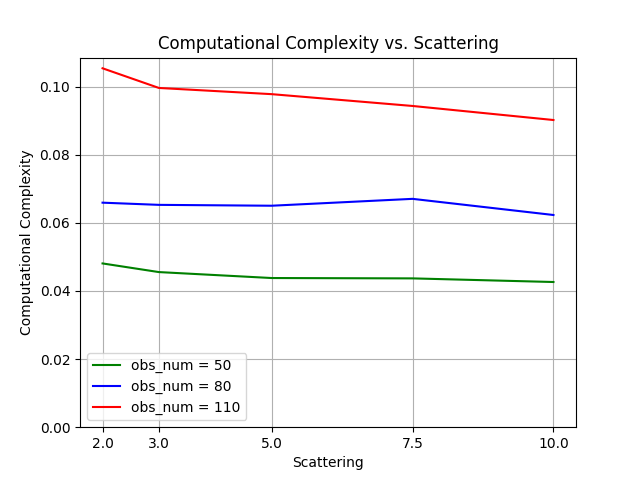
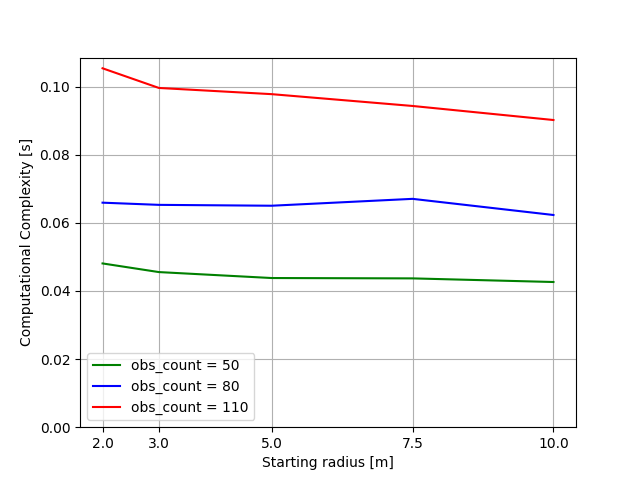
Graphs for Level 1 and 2 updated

diff --git a/Plot_results.py b/Plot_results.py
@@ -62,7 +62,7 @@ def plot_L1(swarm, scattering):
     if scattering: 
         values.append(scattering_values)
         x_ticks.append(asl.L1_scattering)
-        name.append("Scattering")
+        name.append("Starting radius [m]")
         folder.append(folder_path_scattering_L1)
 
     for j in range(len(values)): 
@@ -72,19 +72,19 @@ def plot_L1(swarm, scattering):
         y1, y2, y3 = [], [], []
 
         for i in range(len(x_ticks[j])): 
-            y1.append(sum(x for x in values[j][0][0][i] if x != -1 and x != 0) / sum(1 for x in values[j][0][0][i] if x != -1 and x != 0))
-            y2.append(sum(x for x in values[j][0][1][i] if x != -1 and x != 0) / sum(1 for x in values[j][0][1][i] if x != -1 and x != 0))
-            y3.append(sum(x for x in values[j][0][2][i] if x != -1 and x != 0) / sum(1 for x in values[j][0][2][i] if x != -1 and x != 0))
+            y1.append(sum(x for x in values[j][0][0][i] if x != -1 and x != 0) / sum(1 for x in values[j][0][0][i] if x != -1 and x != 0)*0.4)
+            y2.append(sum(x for x in values[j][0][1][i] if x != -1 and x != 0) / sum(1 for x in values[j][0][1][i] if x != -1 and x != 0)*0.4)
+            y3.append(sum(x for x in values[j][0][2][i] if x != -1 and x != 0) / sum(1 for x in values[j][0][2][i] if x != -1 and x != 0)*0.4)
 
         plt.figure()
-        plt.plot(x_ticks[j], y1, color="green", label = "obs_num = "+str(asl.L1_obstacle_number[0]))
-        plt.plot(x_ticks[j], y2, color="blue", label = "obs_num = "+str(asl.L1_obstacle_number[1]))
-        plt.plot(x_ticks[j], y3, color="red", label = "obs_num = "+str(asl.L1_obstacle_number[2]))
+        plt.plot(x_ticks[j], y1, color="green", label = "obs_count = "+str(asl.L1_obstacle_number[0]))
+        plt.plot(x_ticks[j], y2, color="blue", label = "obs_count = "+str(asl.L1_obstacle_number[1]))
+        plt.plot(x_ticks[j], y3, color="red", label = "obs_count = "+str(asl.L1_obstacle_number[2]))
         plt.xlabel(name[j])
         plt.ylim(0)
         plt.xticks(x_ticks[j])
-        plt.ylabel('Path length')
-        plt.title('Path length vs. '+str(name[j]))
+        plt.ylabel('Path length [m]')
+        #plt.title('Path length vs. '+str(name[j]))
         plt.grid(True)
         plt.legend()
         plot_path = os.path.join(folder[j], ("PathLength"))
@@ -96,7 +96,7 @@ def plot_L1(swarm, scattering):
         y1_err = []
 
         for i in range(len(x_ticks[j])): 
-            y1.append(sum(x for x in values[j][0][0][i] if x != -1 and x != 0) / sum(1 for x in values[j][0][0][i] if x != -1 and x != 0))
+            y1.append(sum(x for x in values[j][0][0][i] if x != -1 and x != 0) / sum(1 for x in values[j][0][0][i] if x != -1 and x != 0)*0.4)
             y1_err.append(np.std([x for x in values[j][0][0][i] if x != 0]))
 
         plt.figure()
@@ -105,8 +105,8 @@ def plot_L1(swarm, scattering):
         plt.xlabel(name[j])
         plt.ylim(0)
         plt.xticks(x_ticks[j])
-        plt.ylabel('Path length')
-        plt.title('Path length vs. '+str(name[j]))
+        plt.ylabel('Path length [m]')
+        #plt.title('Path length vs. '+str(name[j]))
         plt.grid(True)
         plot_path = os.path.join(folder[j], ("PathLength (Error Bars)"))
         plt.savefig(plot_path)
@@ -121,14 +121,14 @@ def plot_L1(swarm, scattering):
             y3.append(sum(x for x in values[j][1][2][i] if x != -1 and x != 0) / sum(1 for x in values[j][1][2][i] if x != -1 and x != 0))
 
         plt.figure()
-        plt.plot(x_ticks[j], y1, color="green", label = "obs_num = "+str(asl.L1_obstacle_number[0]))
-        plt.plot(x_ticks[j], y2, color="blue", label = "obs_num = "+str(asl.L1_obstacle_number[1]))
-        plt.plot(x_ticks[j], y3, color="red", label = "obs_num = "+str(asl.L1_obstacle_number[2]))
+        plt.plot(x_ticks[j], y1, color="green", label = "obs_count = "+str(asl.L1_obstacle_number[0]))
+        plt.plot(x_ticks[j], y2, color="blue", label = "obs_count = "+str(asl.L1_obstacle_number[1]))
+        plt.plot(x_ticks[j], y3, color="red", label = "obs_count = "+str(asl.L1_obstacle_number[2]))
         plt.xlabel(name[j])
         plt.xticks(x_ticks[j])
         plt.ylim(1)
         plt.ylabel('Effective Path length')
-        plt.title('Effective Path length vs. '+str(name[j]))
+        #plt.title('Effective Path length vs. '+str(name[j]))
         plt.grid(True)
         plt.legend()
         plot_path = os.path.join(folder[j], ("EffectivePathLength"))
@@ -150,7 +150,7 @@ def plot_L1(swarm, scattering):
         plt.xticks(x_ticks[j])
         plt.ylim(1)
         plt.ylabel('Effective Path length')
-        plt.title('Effective Path length vs. '+str(name[j]))
+        #plt.title('Effective Path length vs. '+str(name[j]))
         plt.grid(True)
         plot_path = os.path.join(folder[j], ("EffectivePathLength (Error Bars)"))
         plt.savefig(plot_path)
@@ -165,14 +165,14 @@ def plot_L1(swarm, scattering):
             y3.append(sum(x for x in values[j][2][2][i] if x != -1 and x != 0) / sum(1 for x in values[j][2][2][i] if x != -1 and x != 0))
 
         plt.figure()
-        plt.plot(x_ticks[j], y1, color="green", label = "obs_num = "+str(asl.L1_obstacle_number[0]))
-        plt.plot(x_ticks[j], y2, color="blue", label = "obs_num = "+str(asl.L1_obstacle_number[1]))
-        plt.plot(x_ticks[j], y3, color="red", label = "obs_num = "+str(asl.L1_obstacle_number[2]))
+        plt.plot(x_ticks[j], y1, color="green", label = "obs_count = "+str(asl.L1_obstacle_number[0]))
+        plt.plot(x_ticks[j], y2, color="blue", label = "obs_count = "+str(asl.L1_obstacle_number[1]))
+        plt.plot(x_ticks[j], y3, color="red", label = "obs_count = "+str(asl.L1_obstacle_number[2]))
         plt.xlabel(name[j])
         plt.xticks(x_ticks[j])
         plt.ylim(0)
-        plt.ylabel('Computational Complexity')
-        plt.title('Computational Complexity vs. '+str(name[j]))
+        plt.ylabel('Computational Complexity [s]')
+        #plt.title('Computational Complexity vs. '+str(name[j]))
         plt.grid(True)
         plt.legend()
         plot_path = os.path.join(folder[j], ("ComputationalComplexity"))
@@ -193,8 +193,8 @@ def plot_L1(swarm, scattering):
         plt.xlabel(name[j])
         plt.xticks(x_ticks[j])
         plt.ylim(0)
-        plt.ylabel('Computational Complexity')
-        plt.title('Computational Complexity vs. '+str(name[j]))
+        plt.ylabel('Computational Complexity [s]')
+        #plt.title('Computational Complexity vs. '+str(name[j]))
         plt.grid(True)
         plot_path = os.path.join(folder[j], ("ComputationalComplexity (Error Bars)"))
         plt.savefig(plot_path)
@@ -209,18 +209,19 @@ def plot_L1(swarm, scattering):
             y3.append(sum(x for x in values[j][3][2][i] if x != -1) / sum(1 for x in values[j][3][2][i] if x != -1))
 
         plt.figure()
-        plt.plot(x_ticks[j], y1, color="green", label = "obs_num = "+str(asl.L1_obstacle_number[0]))
-        plt.plot(x_ticks[j], y2, color="blue", label = "obs_num = "+str(asl.L1_obstacle_number[1]))
-        plt.plot(x_ticks[j], y3, color="red", label = "obs_num = "+str(asl.L1_obstacle_number[2]))
+        plt.plot(x_ticks[j], y1, color="green", label = "obs_count = "+str(asl.L1_obstacle_number[0]))
+        plt.plot(x_ticks[j], y2, color="blue", label = "obs_count = "+str(asl.L1_obstacle_number[1]))
+        plt.plot(x_ticks[j], y3, color="red", label = "obs_count = "+str(asl.L1_obstacle_number[2]))
         plt.xlabel(name[j])
         plt.xticks(x_ticks[j])
         plt.ylim(0, 1.05)
         plt.ylabel('Reachability')
-        plt.title('Reachability vs. '+str(name[j]))
+        #plt.title('Reachability vs. '+str(name[j]))
         plt.grid(True)
         plt.legend()
         plot_path = os.path.join(folder[j], ("Reachability"))
         plt.savefig(plot_path)
+    print("L1 Graphs created")
 
 def plot_L2(nr_alg, name_data): 
 
@@ -251,11 +252,11 @@ def plot_L2(nr_alg, name_data):
         
         for i in range(len(y)): 
             plt.plot(x_ticks, y[i], color[i], label = alg_name[i]) 
-        plt.xlabel("Obstacle number")
+        plt.xlabel("Obstacle count")
         plt.ylim(0)
         plt.xticks(x_ticks)
-        plt.ylabel('Path length')
-        plt.title('Path length vs. Obstacle density ('+str(name[j])+")")
+        plt.ylabel('Path length [m]')
+        #plt.title('Path length vs. Obstacle density ('+str(name[j])+")")
         plt.grid(True)
         plt.legend()
         plot_path = os.path.join(folder[j], ("PathLength"))
@@ -275,12 +276,12 @@ def plot_L2(nr_alg, name_data):
         plt.figure()
         for i in range(len(y)): 
             plt.plot(x_ticks, y[i], color[i], label = alg_name[i]) 
-        plt.xlabel("Obstacle number")
+        plt.xlabel("Obstacle count")
         plt.ylim(0)
         plt.xticks(x_ticks)
         plt.ylim(1)
         plt.ylabel('Effective Path length')
-        plt.title('Effective Path length vs. Obstacle density ('+str(name[j])+")")
+        #plt.title('Effective Path length vs. Obstacle density ('+str(name[j])+")")
         plt.grid(True)
         plt.legend()
         plot_path = os.path.join(folder[j], ("EffectivePathLength"))
@@ -331,9 +332,9 @@ def plot_L2(nr_alg, name_data):
                     bins = np.arange(min_value, max_value + bin_width, bin_width)
 
                     plt.hist(filtered_data, bins=bins, edgecolor='black', alpha=0.7)
-                    plt.xlabel("Computational Complexity")
+                    plt.xlabel("Computational Complexity [s]")
                     plt.ylabel("Count")
-                    plt.title("Computational Complexity with largest value dropped (A*)")
+                    #plt.title("Computational Complexity with largest value dropped (A*)")
                     plt.show()
 
 
@@ -341,12 +342,12 @@ def plot_L2(nr_alg, name_data):
         plt.figure()
         for i in range(len(y)): 
             plt.plot(x_ticks, y[i], color[i], label = alg_name[i]) 
-        plt.xlabel("Obstacle number")
+        plt.xlabel("Obstacle count")
         plt.ylim(0)
         plt.xticks(x_ticks)
         plt.ylim(0)
-        plt.ylabel('Computational Complexity')
-        plt.title('Computational Complexity vs. Obstacle density ('+str(name[j])+")")
+        plt.ylabel('Computational Complexity [s]')
+        #plt.title('Computational Complexity vs. Obstacle density ('+str(name[j])+")")
         plt.grid(True)
         plt.legend()
         plot_path = os.path.join(folder[j], ("ComputationalComplexity"))
@@ -366,16 +367,17 @@ def plot_L2(nr_alg, name_data):
         plt.figure()
         for i in range(len(y)): 
             plt.plot(x_ticks, y[i], color[i], label = alg_name[i]) 
-        plt.xlabel("Obstacle number")
+        plt.xlabel("Obstacle count")
         plt.ylim(0)
         plt.xticks(x_ticks)
         plt.ylim(0, 1.05)
         plt.ylabel('Reachability')
-        plt.title('Reachability vs. Obstacle density ('+str(name[j])+")")
+        #plt.title('Reachability vs. Obstacle density ('+str(name[j])+")")
         plt.grid(True)
         plt.legend()
         plot_path = os.path.join(folder[j], ("Reachability"))
         plt.savefig(plot_path)
+    print("L2 Graphs created")
 
 def plot_L3(name_data): 
     data = np.load(os.path.join(folder_storage, name_data))
@@ -411,8 +413,8 @@ def plot_L3(name_data):
     plt.xlabel("Swarm setting (Size/Scattering)")
     plt.ylim(0)
     plt.xticks(x_ticks)
-    plt.ylabel('Path length')
-    plt.title('Path length vs. Swarm setting')
+    plt.ylabel('Path length [m]')
+    #plt.title('Path length vs. Swarm setting')
     plt.grid(True)
     plt.legend()
     plot_path = os.path.join(folder_path_L3, ("PathLength"))
@@ -433,12 +435,12 @@ def plot_L3(name_data):
     plt.figure()
     for i in range(len(y)): 
         plt.plot(x_ticks, y[i], color[i], label = alg_name[i]) 
-    plt.xlabel("Swarm setting (Siz/Scattering)")
+    plt.xlabel("Swarm setting (Swarm size / Starting radius [m])")
     plt.ylim(0)
     plt.xticks(x_ticks)
     plt.ylim(1)
     plt.ylabel('Effective Path length')
-    plt.title("Effective Path length vs. Swarm Setting")
+    #plt.title("Effective Path length vs. Swarm Setting")
     plt.grid(True)
     plt.legend()
     plot_path = os.path.join(folder_path_L3, ("EffectivePathLength"))
@@ -458,12 +460,12 @@ def plot_L3(name_data):
     plt.figure()
     for i in range(len(y)): 
         plt.plot(x_ticks, y[i], color[i], label = alg_name[i]) 
-    plt.xlabel("Swarm setting (Size/Scattering)")
+    plt.xlabel("Swarm setting (Swarm size / Starting radius [m])")
     plt.ylim(0)
     plt.xticks(x_ticks)
     plt.ylim(0)
-    plt.ylabel('Computational Complexity')
-    plt.title('Computational Complexity vs. Swarm settings')
+    plt.ylabel('Computational Complexity [s]')
+    #plt.title('Computational Complexity vs. Swarm settings')
     plt.grid(True)
     plt.legend()
     plot_path = os.path.join(folder_path_L3, ("ComputationalComplexity"))
@@ -483,23 +485,24 @@ def plot_L3(name_data):
     plt.figure()
     for i in range(len(y)): 
         plt.plot(x_ticks, y[i], color[i], label = alg_name[i]) 
-        plt.xlabel("Swarm setting (Size/Scattering)")
+        plt.xlabel("Swarm setting (Swarm size / Starting radius [m])")
     plt.ylim(0)
     plt.xticks(x_ticks)
     plt.ylim(0, 1.05)
     plt.ylabel('Reachability')
-    plt.title('Reachability vs. Swarm settings')
+    #plt.title('Reachability vs. Swarm settings')
     plt.grid(True)
     plt.legend()
     plot_path = os.path.join(folder_path_L3, ("Reachability"))
     plt.savefig(plot_path)
+    print("L3 Graphs created")
 
 def plot_L3_2(name_data): 
     data = np.load(os.path.join(folder_storage, name_data))
 
     x_ticks = [asl.L3_2_swarm_analysis, asl.L3_2_scat_analysis]
     folder_plots = [folder_path_L3_2_swarm, folder_path_L3_2_scattering]
-    x_label = ["Swarm size", "Scattering"]
+    x_label = ["Swarm size", "Starting radius [m]"]
     run_idx = [list(range(0, len(asl.L3_2_swarm_analysis))), list(range(len(asl.L3_2_swarm_analysis), len(asl.L3_2_swarm_size)))]
 
     
@@ -526,8 +529,8 @@ def plot_L3_2(name_data):
         plt.xlabel(x_label[s])
         plt.ylim(0)
         plt.xticks(x_ticks[s])
-        plt.ylabel('Path length')
-        plt.title('Path length vs. Swarm setting')
+        plt.ylabel('Path length [m]')
+        #plt.title('Path length vs. Swarm setting')
         plt.grid(True)
         plt.legend()
         plot_path = os.path.join(folder_plots[s], ("PathLength"))
@@ -551,8 +554,8 @@ def plot_L3_2(name_data):
         plt.ylim(0)
         plt.xticks(x_ticks[s])
         plt.ylim(1)
-        plt.ylabel('Effective Path length')
-        plt.title("Effective Path length vs. Swarm Setting")
+        plt.ylabel('Effective Path length [m]')
+        #plt.title("Effective Path length vs. Swarm Setting")
         plt.grid(True)
         plt.legend()
         plot_path = os.path.join(folder_plots[s], ("EffectivePathLength"))
@@ -576,8 +579,8 @@ def plot_L3_2(name_data):
         plt.ylim(0)
         plt.xticks(x_ticks[s])
         plt.ylim(0)
-        plt.ylabel('Computational Complexity')
-        plt.title('Computational Complexity vs. Swarm settings')
+        plt.ylabel('Computational Complexity [s]')
+        #plt.title('Computational Complexity vs. Swarm settings')
         plt.grid(True)
         plt.legend()
         plot_path = os.path.join(folder_plots[s], ("ComputationalComplexity"))
@@ -602,18 +605,18 @@ def plot_L3_2(name_data):
         plt.xticks(x_ticks[s])
         plt.ylim(0, 1.05)
         plt.ylabel('Reachability')
-        plt.title('Reachability vs. Swarm settings')
+        #plt.title('Reachability vs. Swarm settings')
         plt.grid(True)
         plt.legend()
         plot_path = os.path.join(folder_plots[s], ("Reachability"))
         plt.savefig(plot_path)
+    print("L3_2 Graphs created")
 
 
 #---------------Run functions---------------------
 
 
-#plot_L1(True, True)
+plot_L1(True, True)
 plot_L2(5, "Storage_L2.npy")
 #plot_L3("Storage_L3.npy")
-#plot_L2(5, "Storage_L2.npy")
 #plot_L3_2("Storage_L3_2.npy")
